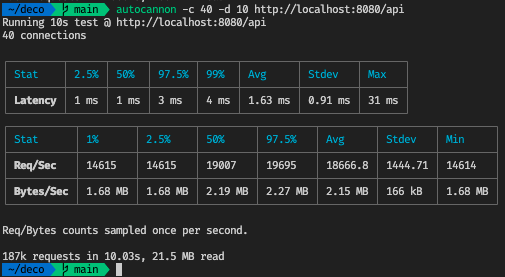
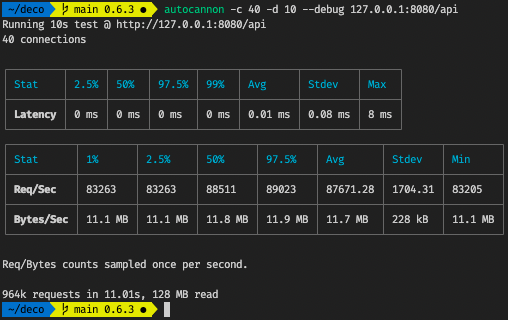
updates

diff --git a/version.ts b/version.ts
@@ -1,1 +1,1 @@
-export const DECO_VERSION = "0.6.3";
+export const DECO_VERSION = "0.6.4";

diff --git a/README.md b/README.md
@@ -6,14 +6,110 @@
 - REST API helpers (@Http.xxx) with OpenAPI support
 - Dapr helpers (@Dapr.xxx) for resilient cloud native Deno microservices/actors
 
+## Server [example](examples/example_server.ts)
+```typescript
+import { Http } from "../decorators/httpserver.decorator.ts";
+
+@Http.Server({ schema: "api.yaml" })
+class OpenAPIServer {}
+
+@Http.Server()
+class ExampleServer {
+  @Http.Get("/api/:id")
+  get({ id, url }: { id: string; url: URL }) {
+    return {
+      body: `[GET /api/:id] 😎 (got id: "${id}", query: "${
+        decodeURIComponent(url.searchParams.toString())
+      }")`,
+    };
+  }
+
+  @Http.Post("/api")
+  async post({ url, request }: { url: URL; request: Request }) {
+    return {
+      body: `[POST /api/:id] 😎 (got data: "${await request.text()}", query: "${
+        decodeURIComponent(url.searchParams.toString())
+      }")`,
+    };
+  }
+
+  @Http.Get("/static/*")
+  static({ "*": path }: { "*": string }) {
+    return {
+      body: `[GET /static/*] 😎 (got path: "${path}")`,
+    };
+  }
+
+  @Http.Get("/sse")
+  stream() {
+    let cancelled = true;
+    const stream = new ReadableStream({
+      start: (controller) => {
+        cancelled = false;
+        console.log("Stream started");
+        controller.enqueue(": Welcome to the /sse endpoint!\n\n");
+        (function time() {
+          setTimeout(() => {
+            if (!cancelled) {
+              const body = `event: timer\ndata: ${
+                new Date().toISOString()
+              }\n\n\n`;
+              controller.enqueue(body);
+              time();
+            }
+          }, 1000);
+        })();
+      },
+      cancel() {
+        cancelled = true;
+        console.log("Stream cancelled");
+      },
+    });
+    return {
+      body: stream.pipeThrough(new TextEncoderStream()),
+      init: { headers: { "content-type": "text/event-stream" } },
+    };
+  }
+}
+
+console.log("Server started...");
+Http.serve();
+```
+
 ## [Dapr](https://dapr.io) [example](examples/dapr/example_dapr.ts)
 ```typescript
+// Start Dapr sidecar in local environment:
+//    dapr run --app-id sidecar --dapr-http-port 3500 --components-path ./components
+// Run the example:
+//    dapr --app-id deco-app --app-port 3000 --components-path ./components run -- deno run -A --unstable --watch example_dapr.ts
+// Publish message to topic A:
+//    dapr publish --publish-app-id sidecar --pubsub pubsub --topic A --data '{"data": "message for topic A"}'
+// Publish message to topic B and get Telegrom notification (needs TELEGRAM_TOKEN and TELEGRAM_CHATID exist in the secrets store):
+//    dapr publish --publish-app-id sidecar --pubsub pubsub --topic B --data '{"text": "Hello from Deco.Dapr!"}'
+// Publish message to topic C to see raw message format:
+//    dapr publish --publish-app-id sidecar --pubsub pubsub --topic C --data '{"raw": "raw message for topic C"}'
+// Send data to the actor
+//    curl -X POST "http://localhost:3500/v1.0/actors/testActor/1/method/testMethod1" -d "{test: 'data'}"
+
+import {
+  Actor,
+  ActorEvent,
+  Bindings,
+  Dapr,
+  PubSub,
+  Secrets,
+  Service,
+  State,
+} from "../../decorators/dapr.decorator.ts";
+import { sleep } from "../../utils/utils.ts";
+
 const { TELEGRAM_CHATID, TELEGRAM_TOKEN } = await Secrets.getBulk({
   store: "example-secrets-store",
 });
 const PUBSUBNAME = "pubsub";
 
-class _ {
+@Dapr.App()
+class _ExampleApp {
   @PubSub.subscribe({ pubSubName: PUBSUBNAME, topic: "A" })
   topicA({ data }: { data: unknown }) {
     console.log("topicA =>", data);
@@ -51,14 +147,176 @@ class _ {
       topic: "A",
     });
   }
+
+  private counter = 0;
+
+  @Service.expose({ name: "test", verb: "GET" })
+  async test({ request }: { request: Request }) {
+    console.log(
+      `test service called, counter: ${++this.counter}, data = "${await request
+        .text()}"`,
+    );
+    await sleep(4000);
+    return {
+      body: `test reply, counter: ${this.counter}`,
+    };
+  }
 }
 
+@Dapr.App()
+class _ExampleActor {
+  counter = 0;
+
+  @Actor.registerEventHandler({
+    actorType: "testActor",
+    event: ActorEvent.Activate,
+  })
+  async activate(
+    { actorType, actorId }: { actorType: string; actorId: string },
+  ) {
+    this.counter = 0;
+    console.log(
+      `testActor with actorId="${actorId}" activated, counter reset\nCreating reminder and timer...`,
+    );
+    await Actor.createReminder({
+      actorType,
+      actorId,
+      reminderName: "testReminder",
+      dueTime: "20s",
+      period: "0",
+    });
+    await Actor.createTimer({
+      actorType,
+      actorId,
+      timerName: "testTimer",
+      dueTime: "5s",
+      period: "0s",
+    });
+  }
+
+  @Actor.registerEventHandler({
+    actorType: "testActor",
+    event: ActorEvent.Deactivate,
+  })
+  deactivate({ actorId }: { actorId: string }) {
+    console.log(`testActor with actorId="${actorId}" deactivated`);
+  }
+
+  @Actor.registerMethod({
+    actorType: "testActor",
+    methodName: "testReminder",
+  })
+  testReminder(
+    { actorType, actorId, methodName }: {
+      actorType: string;
+      actorId: string;
+      methodName: string;
+    },
+  ) {
+    console.log(
+      `⏱ Actor reminder invoked, actorType="${actorType}", actorId="${actorId}", reminder="${methodName}"`,
+    );
+  }
+
+  @Actor.registerMethod({
+    actorType: "testActor",
+    methodName: "testTimer",
+  })
+  testTimer(
+    { actorType, actorId, methodName }: {
+      actorType: string;
+      actorId: string;
+      methodName: string;
+    },
+  ) {
+    console.log(
+      `⏰ Actor timer invoked, actorType="${actorType}", actorId="${actorId}", reminder="${methodName}"`,
+    );
+  }
+
+  @Actor.registerMethod({
+    actorType: "testActor",
+    methodName: "testMethod1",
+  })
+  async testMethod1(
+    { actorId, request }: { actorId: string; request: Request },
+  ) {
+    const data = await request.text();
+    console.log(
+      `actor invoked with data="${data}", actorType="testActor", actorId="${actorId}", method="testMethod"`,
+    );
+    return `counter: ${++this.counter}`;
+  }
+
+  @Actor.registerMethod({
+    actorType: "testActor",
+    methodName: "testMethod2",
+  })
+  async testMethod2(
+    { actorType, actorId, methodName, request }: {
+      actorType: string;
+      actorId: string;
+      methodName: string;
+      request: Request;
+    },
+  ) {
+    const data = await request.text();
+    console.log(
+      `actor invoked with data="${data}", actorType="${actorType}", actorId="${actorId}", method="${methodName}"`,
+    );
+    if (this.counter < 10) {
+      // Invokes itself asynchronously
+      Actor.invoke({
+        actorType,
+        actorId,
+        methodName,
+        data: `test data from myself, counter=${this.counter}`,
+      });
+    }
+    return `counter: ${++this.counter}`;
+  }
+}
+
+// Setting and getting state
+await State.set({
+  storename: "example-state-store",
+  data: [{ key: "key1", value: "value1" }, { key: "key3", value: "value3" }],
+});
+console.log(
+  `key1=${
+    JSON.stringify(
+      await (await State.get({ storename: "example-state-store", key: "key1" }))
+        .text(),
+    )
+  }`,
+);
+console.log(
+  `missing=${
+    JSON.stringify(
+      await (await State.get({
+        storename: "example-state-store",
+        key: "missing",
+      })).text(),
+    )
+  }`,
+);
+console.log(
+  `bulk=${
+    JSON.stringify(
+      await (await State.getBulk({
+        storename: "example-state-store",
+        data: { keys: ["key1", "missing", "key3"] },
+      })).text(),
+    )
+  }`,
+);
+
 console.log("Dapr app started...");
-Dapr.start({ appPort: 3000 });
+Dapr.start({ appPort: 3000, actorIdleTimeout: "5s" });
 ```
 ## Running tests
 ```sh
 deno test --allow-net
 ```
-## Http server performance (~19k RPS)
+## Http server performance (~90k RPS on MBP/M1)
 ![Http server benchmark](images/bench.png)
